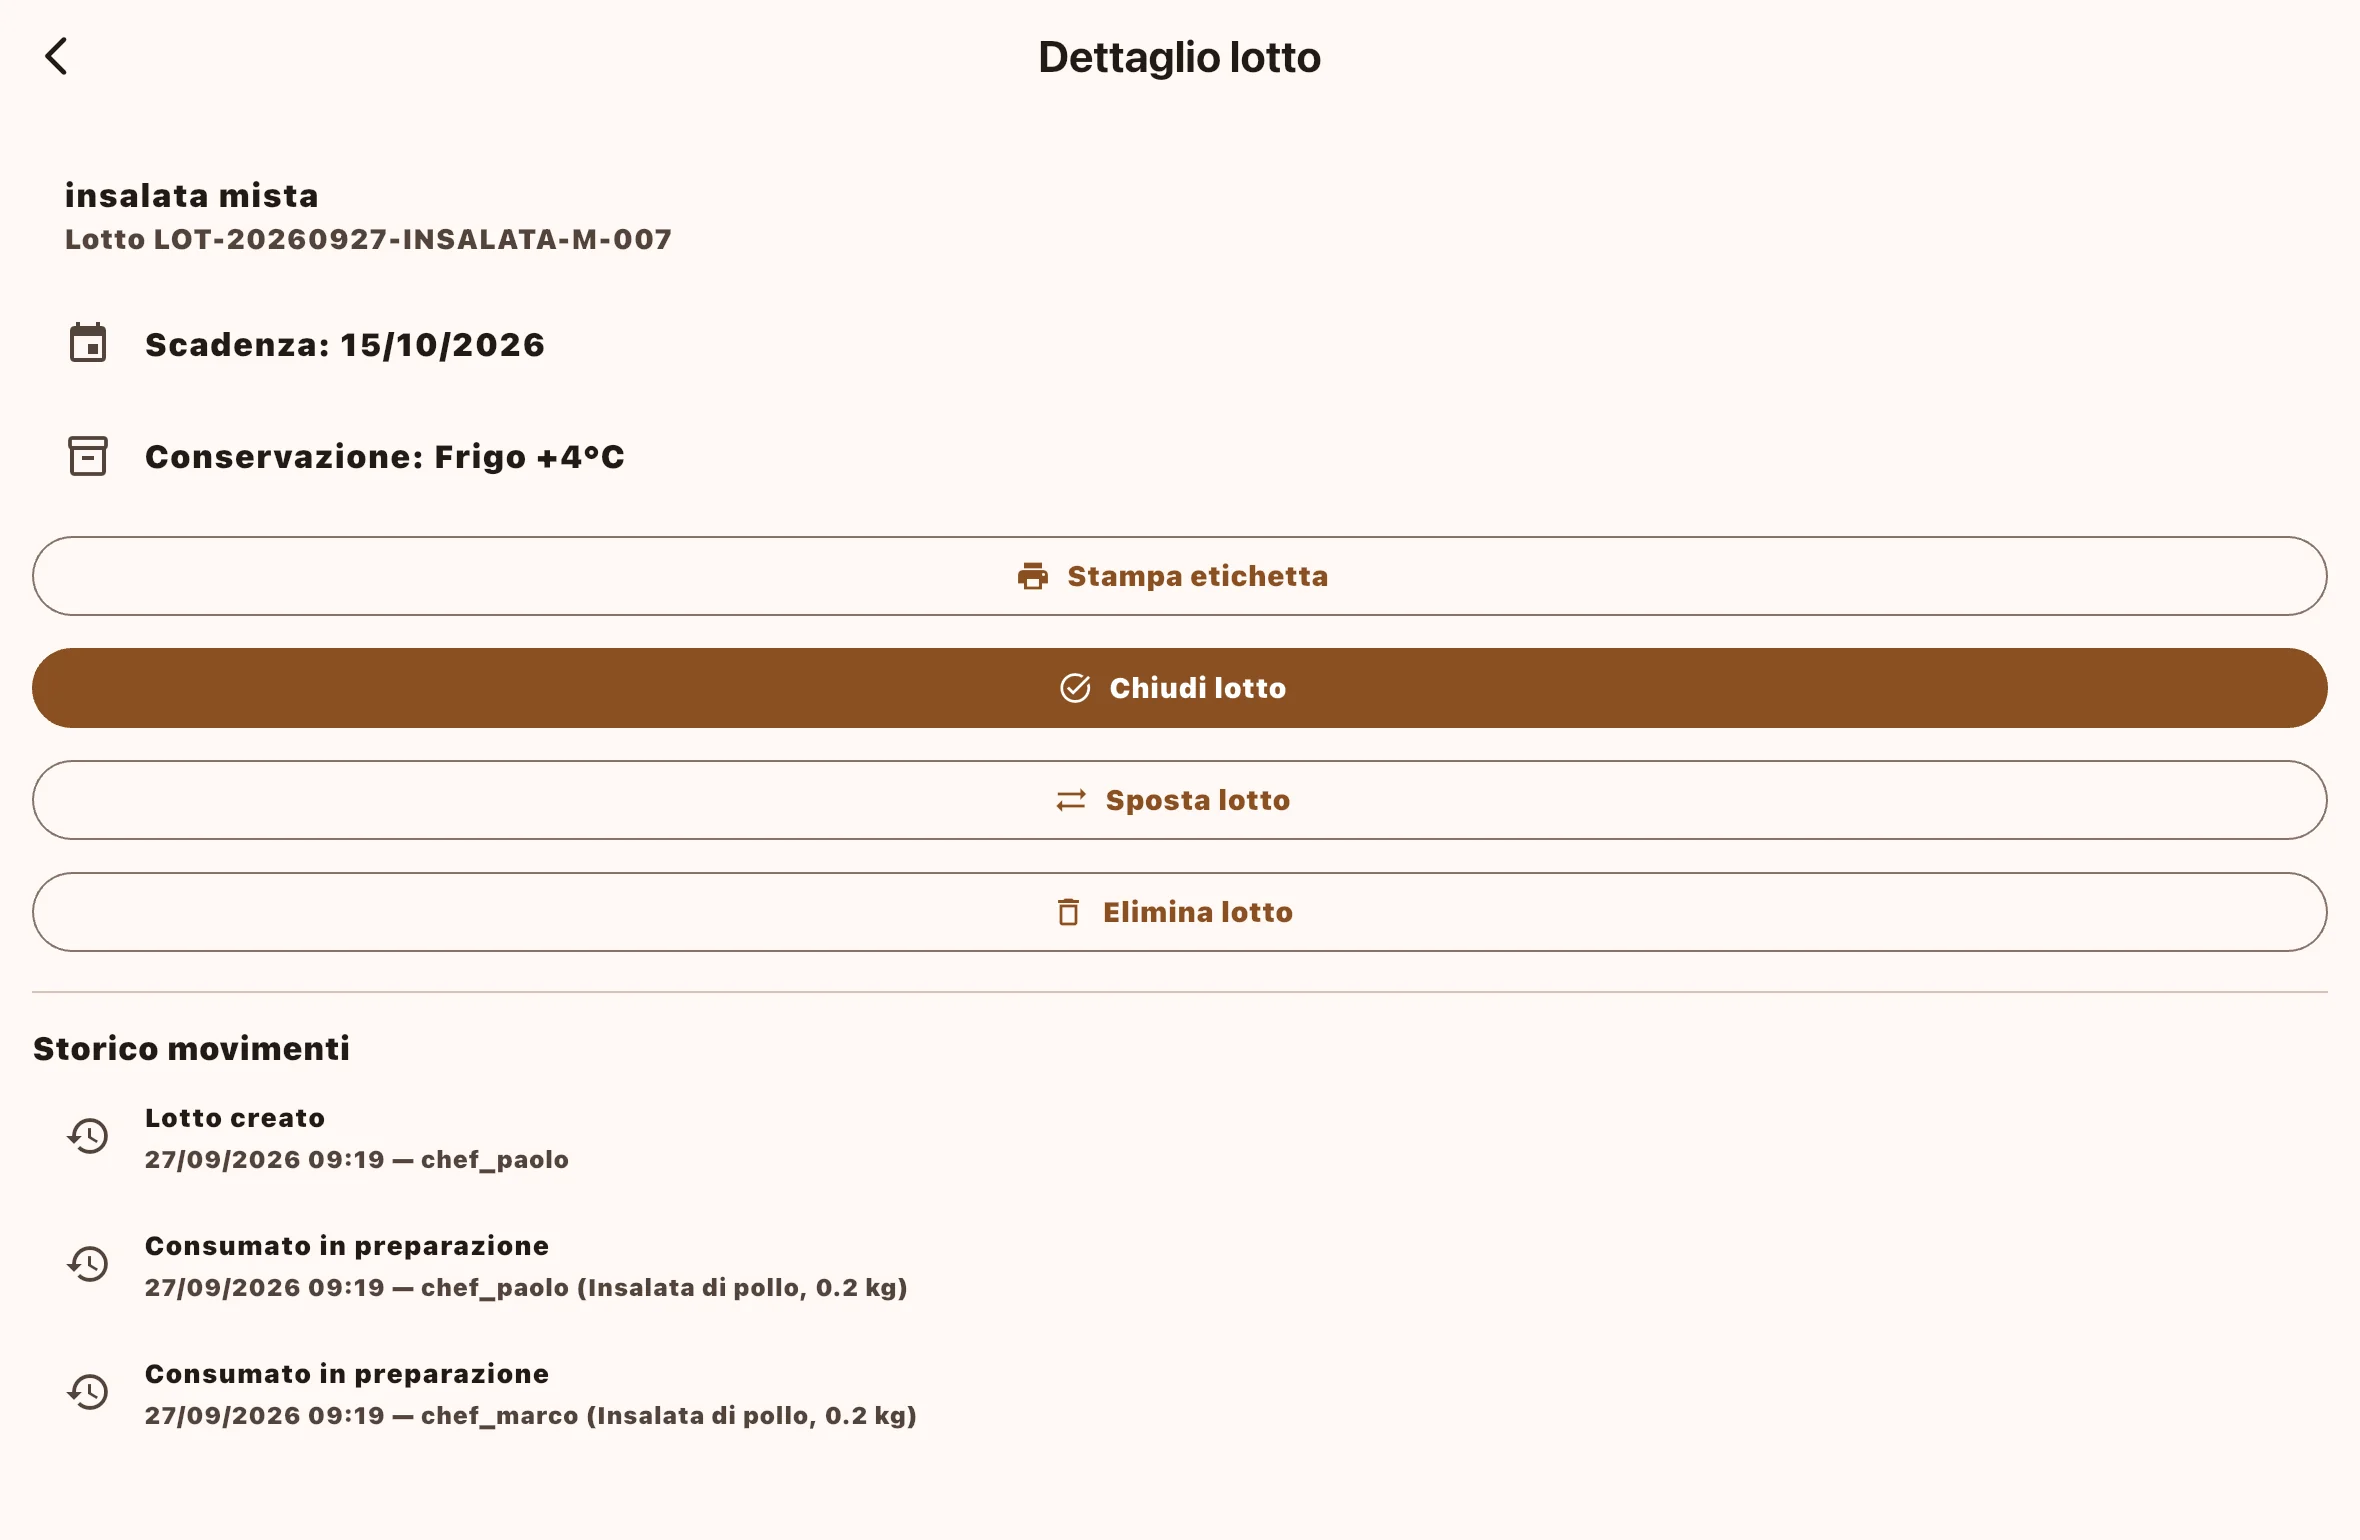
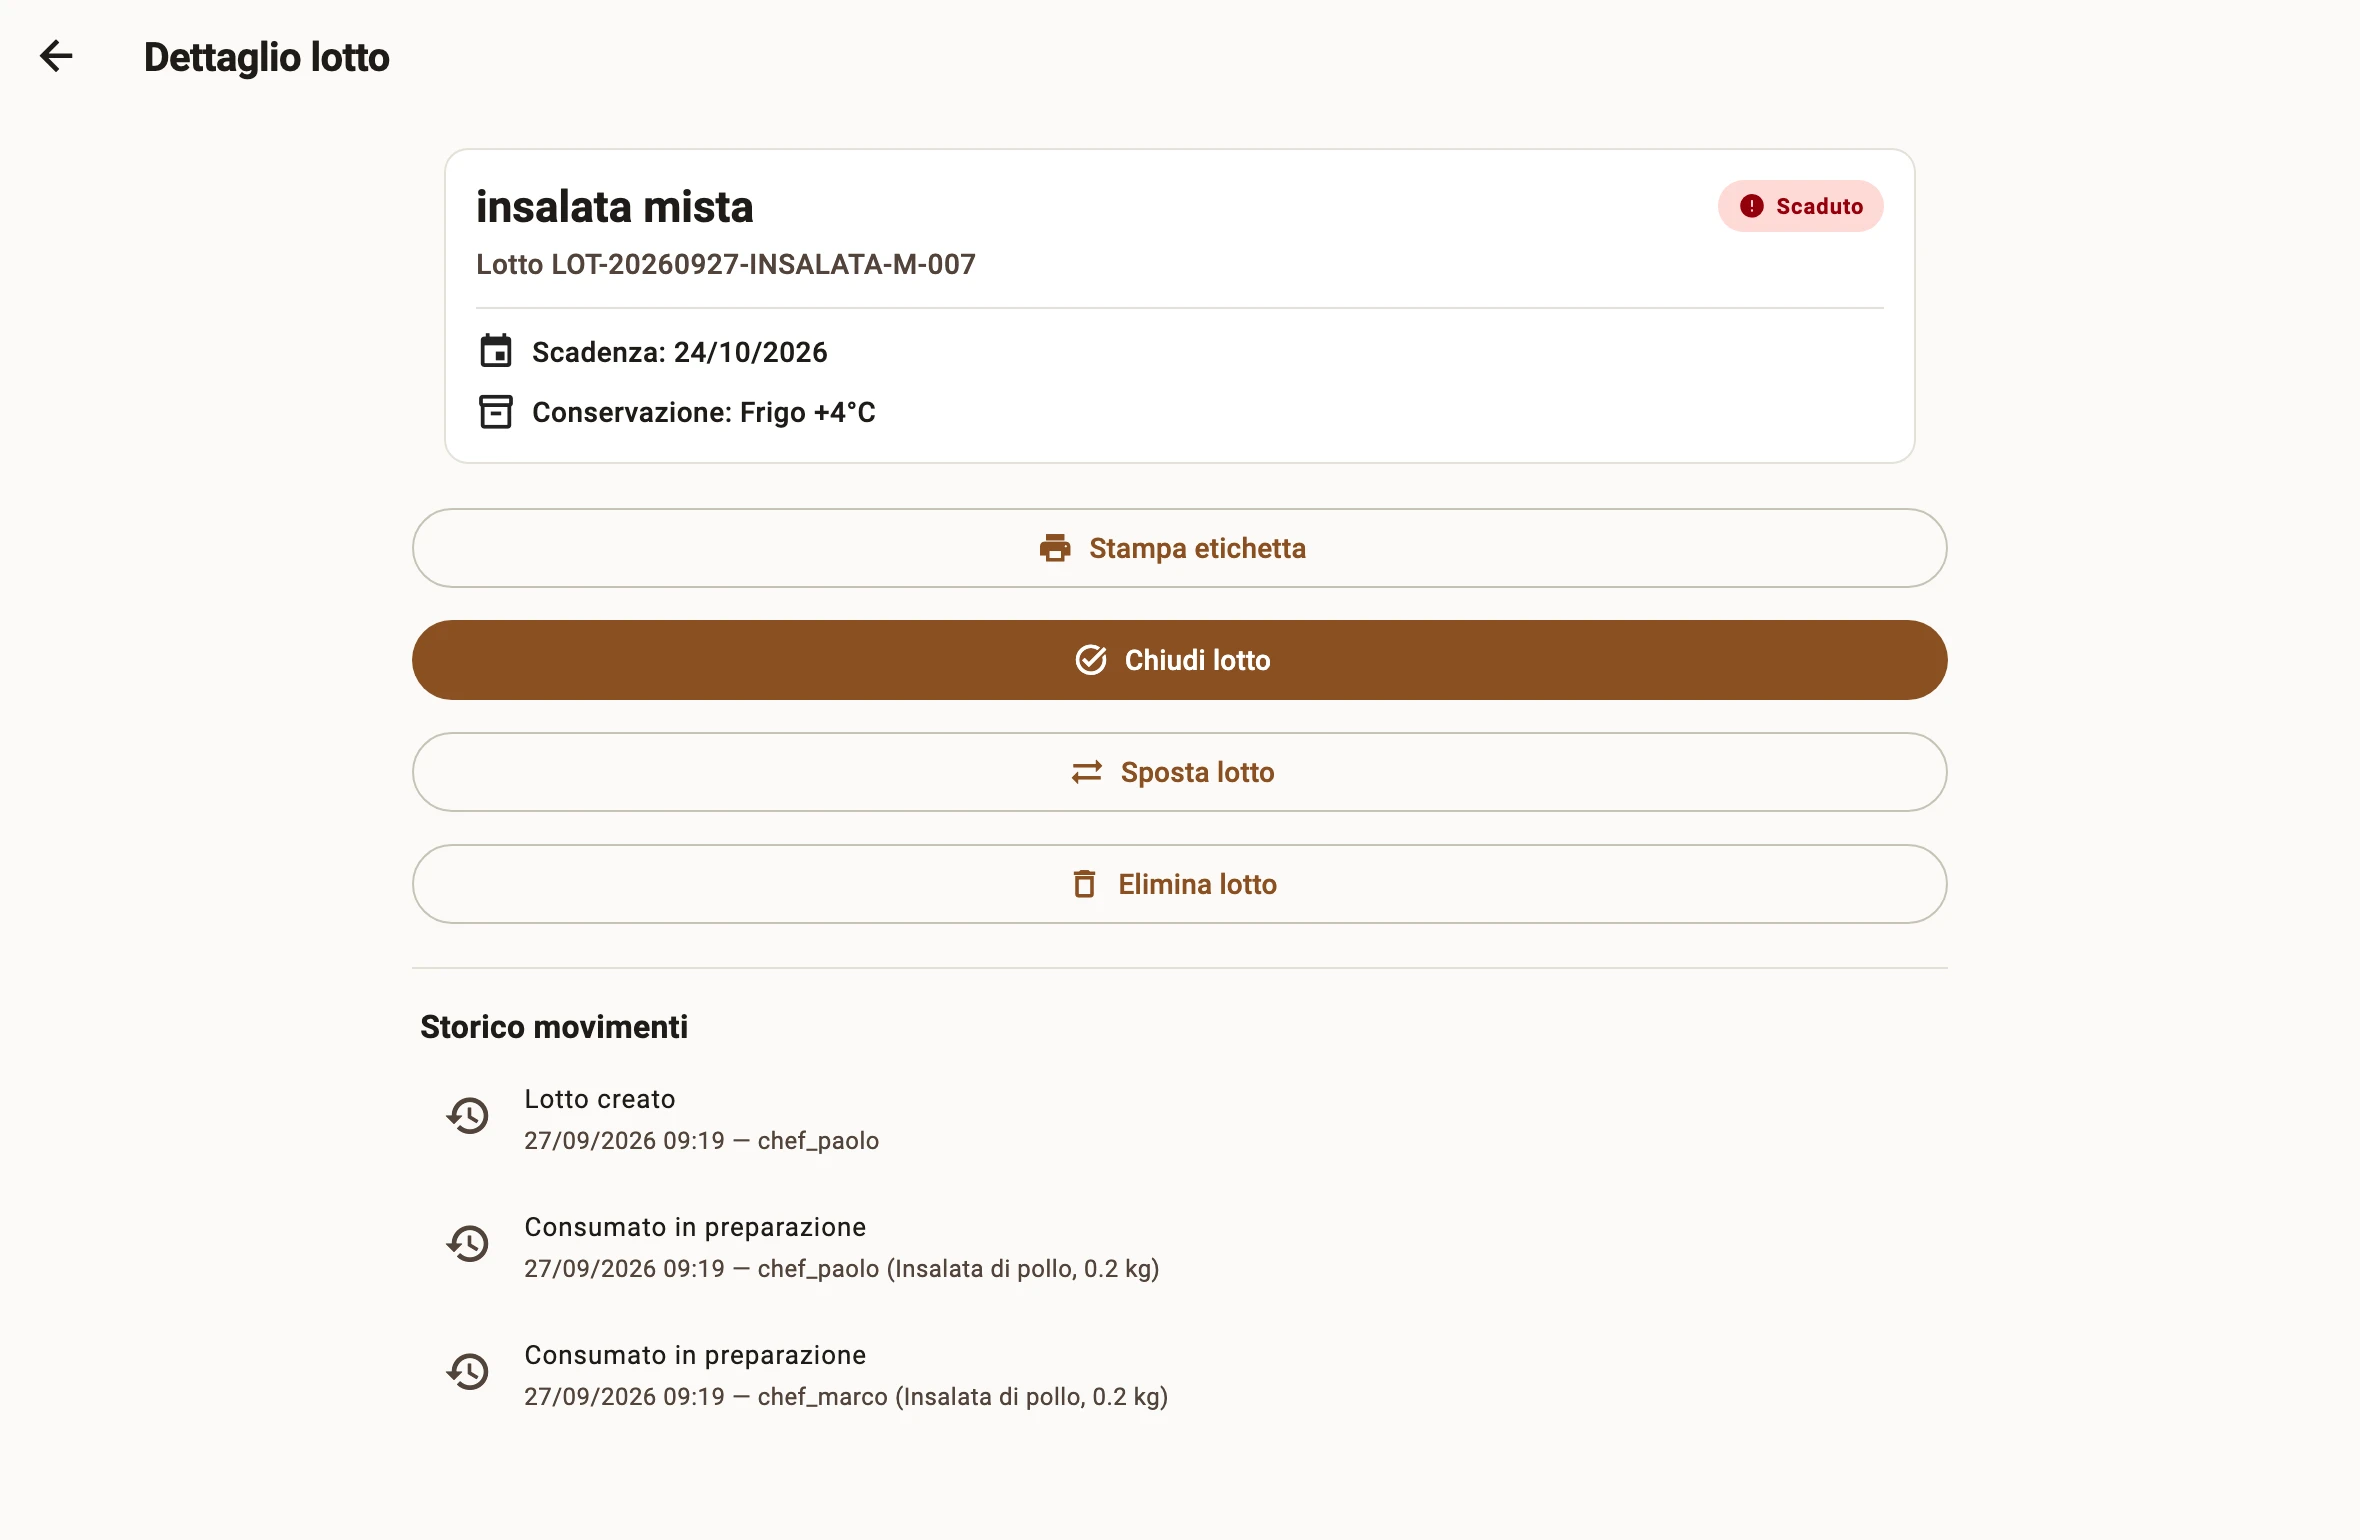
feat: aggiornati screenshot lotto e scadenze con la nuova ui

diff --git a/site/index.html b/site/index.html
@@ -158,8 +158,8 @@
           <p>Per ogni preparazione l'app registra i lotti usati e calcola il TMC, il termine minimo di conservazione. L'etichetta HACCP esce dalla stampante già compilata.</p>
         </div>
         <div class="step">
-          <img class="crop" src="/img/passo-scadenze-700.webp" srcset="/img/passo-scadenze-700.webp 700w, /img/passo-scadenze-1400.webp 1400w" sizes="(max-width: 800px) calc(100vw - 32px), 560px" width="1400" height="545" loading="lazy" decoding="async"
-               alt="Elenco dei lotti nell'app: le uova e l'insalata di pollo preparata sono segnate come Scaduto, l'insalata mista come In scadenza, i pomodori non hanno segnalazioni.">
+          <img class="crop" src="/img/passo-scadenze-700.webp" srcset="/img/passo-scadenze-700.webp 700w, /img/passo-scadenze-1400.webp 1400w" sizes="(max-width: 800px) calc(100vw - 32px), 560px" width="1400" height="560" loading="lazy" decoding="async"
+               alt="Elenco dei lotti nell'app: le uova sono segnate come Scaduto, l'insalata mista come In scadenza, i pomodori non hanno segnalazioni.">
           <h3>Arriva l'ispezione? Sei già pronto.</h3>
           <p>Le notifiche ti avvisano prima che un lotto scada. Quando serve, il report PDF raccoglie lotti, scadenze, allergeni, movimenti, temperature e pulizie del periodo.</p>
         </div>
